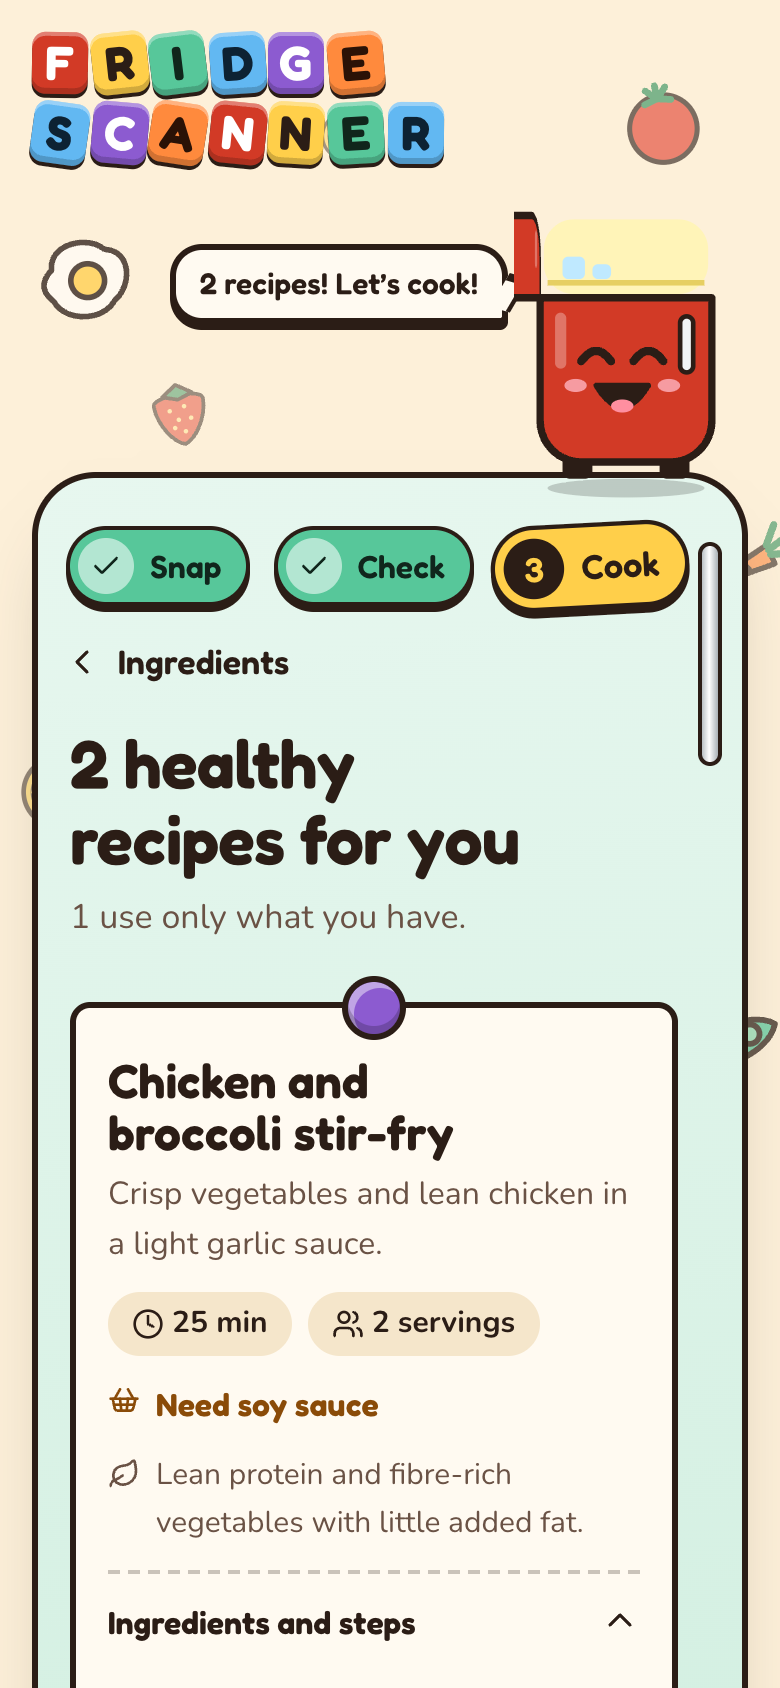
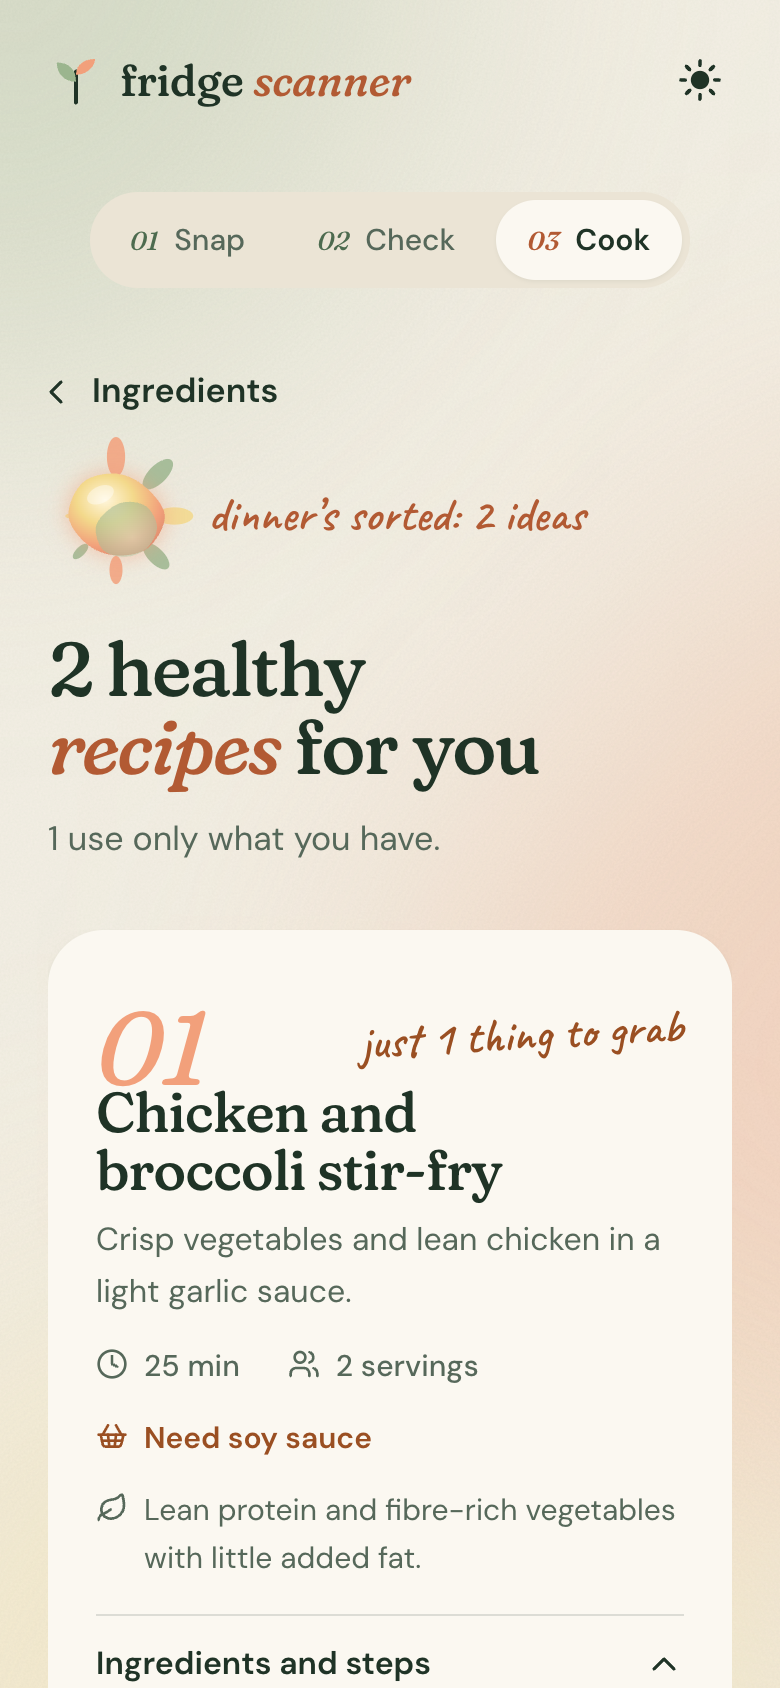
Respect reduced motion fully and refresh the README
Motion only disables transform animations under reduced motion, so
blur, opacity, and clip-path reveals still ran. Skip them when the
user asks for reduced motion: headlines, the orb caption, photos,
ingredient chips, recipe cards, and screen exits now appear in place.

Update the README screenshots and design notes for the redesign.

diff --git a/src/components/OrbStage.tsx b/src/components/OrbStage.tsx
@@ -1,4 +1,4 @@
-import { AnimatePresence, motion } from 'motion/react'
+import { AnimatePresence, motion, useReducedMotion } from 'motion/react'
 import type { OrbMood } from '../lib/orb'
 import { Orb } from './Orb'
 
@@ -13,6 +13,7 @@ const glide = { type: 'spring', stiffness: 120, damping: 20, mass: 0.9 } as cons
 
 /** Holds the orb and its handwritten caption, and glides between sizes. */
 export function OrbStage({ mood, caption, size }: OrbStageProps) {
+  const calm = useReducedMotion() ?? false
   return (
     <motion.div layout className={`orb-stage orb-stage--${size}`} transition={glide}>
       <motion.div layout className="orb-stage__orb" transition={glide}>
@@ -24,9 +25,9 @@ export function OrbStage({ mood, caption, size }: OrbStageProps) {
             key={caption}
             className="hand"
             aria-hidden="true"
-            initial={{ opacity: 0, y: 8, filter: 'blur(6px)' }}
+            initial={calm ? false : { opacity: 0, y: 8, filter: 'blur(6px)' }}
             animate={{ opacity: 1, y: 0, filter: 'blur(0px)' }}
-            exit={{ opacity: 0, y: -6, filter: 'blur(6px)' }}
+            exit={calm ? { opacity: 0 } : { opacity: 0, y: -6, filter: 'blur(6px)' }}
             transition={{ duration: 0.45, ease: [0.2, 0.8, 0.2, 1] }}
           >
             {caption}

diff --git a/src/screens/ReviewScreen.tsx b/src/screens/ReviewScreen.tsx
@@ -1,5 +1,5 @@
 import { ListPlus, X } from 'lucide-react'
-import { AnimatePresence, motion } from 'motion/react'
+import { AnimatePresence, motion, useReducedMotion } from 'motion/react'
 import { useEffect, useState, type SyntheticEvent } from 'react'
 import { EmptyState } from '../components/EmptyState'
 import { Icon } from '../components/Icon'
@@ -54,6 +54,7 @@ export default function ReviewScreen({
   onFindRecipes,
 }: ReviewScreenProps) {
   const [draft, setDraft] = useState('')
+  const calm = useReducedMotion() ?? false
   // Magnets present on arrival drop in one by one; later ones drop at once.
   const [settled, setSettled] = useState(false)
   useEffect(() => {
@@ -113,7 +114,7 @@ export default function ReviewScreen({
                 key={ingredient.id}
                 layout
                 className={`chip tint--${tintFor(ingredient.name)}`}
-                initial={{ opacity: 0, scale: 0.85, filter: 'blur(6px)' }}
+                initial={calm ? false : { opacity: 0, scale: 0.85, filter: 'blur(6px)' }}
                 animate={{ opacity: 1, scale: 1, filter: 'blur(0px)' }}
                 exit={{
                   opacity: 0,

diff --git a/src/screens/RecipesScreen.tsx b/src/screens/RecipesScreen.tsx
@@ -1,5 +1,5 @@
 import { CookingPot, RotateCcw } from 'lucide-react'
-import { motion } from 'motion/react'
+import { motion, useReducedMotion } from 'motion/react'
 import { EmptyState } from '../components/EmptyState'
 import { Icon } from '../components/Icon'
 import { Notice } from '../components/Notice'
@@ -36,6 +36,7 @@ export default function RecipesScreen({
   onBack,
   onReset,
 }: RecipesScreenProps) {
+  const calm = useReducedMotion() ?? false
   if (generation.status === 'loading') {
     return (
       <section className="screen" aria-labelledby="recipes-heading" aria-busy="true">
@@ -112,7 +113,9 @@ export default function RecipesScreen({
         {recipes.map((recipe, index) => (
           <motion.li
             key={recipe.id}
-            initial={{ opacity: 0, y: 70, clipPath: 'inset(14% 8% 0% 8% round 28px)' }}
+            initial={
+              calm ? false : { opacity: 0, y: 70, clipPath: 'inset(14% 8% 0% 8% round 28px)' }
+            }
             whileInView={{ opacity: 1, y: 0, clipPath: 'inset(0% 0% 0% 0% round 28px)' }}
             viewport={{ once: true, amount: 'some' }}
             transition={{

diff --git a/src/screens/UploadScreen.tsx b/src/screens/UploadScreen.tsx
@@ -1,5 +1,5 @@
 import { Camera, ImagePlus, X } from 'lucide-react'
-import { AnimatePresence, motion } from 'motion/react'
+import { AnimatePresence, motion, useReducedMotion } from 'motion/react'
 import { useRef, useState, type ChangeEvent, type DragEvent } from 'react'
 import { Icon } from '../components/Icon'
 import { RevealText } from '../components/RevealText'
@@ -54,6 +54,7 @@ function PhotoUpload({
 }: UploadScreenProps) {
   const inputRef = useRef<HTMLInputElement>(null)
   const [dragging, setDragging] = useState(false)
+  const calm = useReducedMotion() ?? false
   const busy = detection.status === 'loading'
   const full = photos.length >= API_LIMITS.maxImages
 
@@ -142,7 +143,7 @@ function PhotoUpload({
                 >
                   <motion.span
                     className="photo-tile__frame"
-                    initial={{ clipPath: 'circle(0% at 50% 50%)' }}
+                    initial={calm ? false : { clipPath: 'circle(0% at 50% 50%)' }}
                     animate={{ clipPath: 'circle(75% at 50% 50%)' }}
                     transition={{ duration: 0.9, ease: [0.65, 0, 0.35, 1] }}
                   >

diff --git a/src/App.tsx b/src/App.tsx
@@ -1,5 +1,5 @@
 import { ChevronLeft } from 'lucide-react'
-import { AnimatePresence, MotionConfig, motion } from 'motion/react'
+import { AnimatePresence, MotionConfig, motion, useReducedMotion } from 'motion/react'
 import { lazy, Suspense } from 'react'
 import { Ambient } from './components/Ambient'
 import { ErrorBoundary } from './components/ErrorBoundary'
@@ -19,6 +19,7 @@ const RecipesScreen = lazy(() => import('./screens/RecipesScreen'))
 
 export default function App() {
   const flow = useScanFlow()
+  const calm = useReducedMotion() ?? false
   const orb = orbState({
     aiEnabled: flow.aiEnabled,
     step: flow.step,
@@ -68,7 +69,7 @@ export default function App() {
                   key={flow.step}
                   initial={{ opacity: 1 }}
                   animate={{ opacity: 1 }}
-                  exit={{ opacity: 0, y: -24, filter: 'blur(8px)' }}
+                  exit={calm ? { opacity: 0 } : { opacity: 0, y: -24, filter: 'blur(8px)' }}
                   transition={{ duration: 0.4, ease: [0.65, 0, 0.35, 1] }}
                 >
                   <Suspense fallback={<Loading />}>

diff --git a/src/components/RevealText.tsx b/src/components/RevealText.tsx
@@ -1,4 +1,4 @@
-import { motion } from 'motion/react'
+import { motion, useReducedMotion } from 'motion/react'
 import { Fragment } from 'react'
 import { splitWords } from '../lib/text'
 
@@ -16,13 +16,15 @@ interface RevealTextProps {
  */
 export function RevealText({ text, delay = 0 }: RevealTextProps) {
   const words = splitWords(text)
+  // Reduced motion: show the words at once (motion only disables transforms itself).
+  const calm = useReducedMotion() ?? false
   return (
     <>
       {words.map(({ word, emphasis }, index) => (
         <Fragment key={`${String(index)}-${word}`}>
           <motion.span
             className="reveal-word"
-            initial={{ opacity: 0, y: '0.45em', filter: 'blur(10px)' }}
+            initial={calm ? false : { opacity: 0, y: '0.45em', filter: 'blur(10px)' }}
             animate={{ opacity: 1, y: '0em', filter: 'blur(0px)' }}
             transition={{ duration: 0.8, ease: [0.2, 0.8, 0.2, 1], delay: delay + index * 0.07 }}
           >

diff --git a/README.md b/README.md
@@ -5,9 +5,9 @@ Snap a photo of your fridge or pantry and get healthy recipes, with steps, from 
 **Live demo:** <https://prestoj01.github.io/Fridge-Scanner/>
 
 <p>
-  <img src="docs/screenshots/upload.png" alt="Upload screen: Chilly the fridge asks for photos above a fridge-door panel" width="260">
-  <img src="docs/screenshots/review.png" alt="Review screen: six detected ingredients shown as colorful fridge magnets" width="260">
-  <img src="docs/screenshots/recipes.png" alt="Recipes screen: recipe notes pinned to the door with magnets" width="260">
+  <img src="docs/screenshots/upload.png" alt="Upload screen: a glowing orb above the headline Photograph your fridge to find recipes" width="260">
+  <img src="docs/screenshots/review.png" alt="Review screen: the orb in bloom beside six detected ingredients" width="260">
+  <img src="docs/screenshots/recipes.png" alt="Recipes screen: a numbered recipe card with a handwritten note" width="260">
 </p>
 
 ## How it works
@@ -20,9 +20,11 @@ The app also works with no backend at all. In **offline mode** you type your ing
 
 ## Design
 
-The whole app is a fridge door. Ingredients are magnets you can grab and fling, photos are polaroids, and recipes are notes pinned up with magnets. Chilly, a small fridge with a face, sits on top and reacts to what is happening: hungry for photos, darting its eyes while scanning, bouncing when recipes arrive, sulking on errors. Food doodles float behind the page with parallax.
+Fresh and organic: oat, sage, and peach by day and deep herb green at night, with Fraunces headlines, DM Sans body text, and small handwritten notes in Caveat. A sun/moon toggle switches themes with a circular reveal, and the app follows the device until you choose.
 
-Every animation is turned off or reduced when the device asks for reduced motion.
+At the center is a living orb that reacts to what is happening. It breathes when idle, ripples while reading photos, swirls with orbiting seeds while recipes cook, blooms into petals on success, and wilts when something goes wrong. It glides from a large hero on the first screen to a compact companion beside later headlines.
+
+Motion is cinematic: headlines resolve word by word, each screen's parts rise in sequence, photos open with a circular reveal, recipe cards reveal as you scroll, and soft color fields drift behind the page with parallax. With reduced motion turned on, everything appears in place without movement.
 
 ## Architecture
 
@@ -43,7 +45,7 @@ Everything runs on free tiers: GitHub Pages, Cloudflare Workers, and the Gemini 
 ## Tech stack
 
 - [Vite](https://vite.dev/) + [React](https://react.dev/) + [TypeScript](https://www.typescriptlang.org/) (strict), plain CSS, React state only
-- [Motion](https://motion.dev/) for springs, drag, and enter/exit animations; [Lucide](https://lucide.dev/) icons; Fredoka and Nunito fonts, self-hosted
+- [Motion](https://motion.dev/) for springs, morphing, layout and scroll animations; [Lucide](https://lucide.dev/) icons; Fraunces, DM Sans, and Caveat fonts, self-hosted
 - [Cloudflare Workers](https://developers.cloudflare.com/workers/) for the API, with no runtime dependencies
 - [Gemini API](https://aistudio.google.com/) for image understanding and recipe generation
 - [Vitest](https://vitest.dev/) + [Testing Library](https://testing-library.com/), ESLint, Prettier
